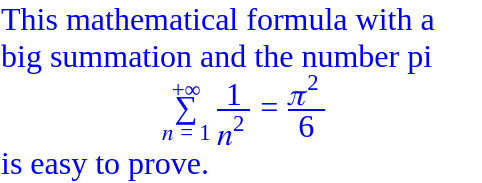
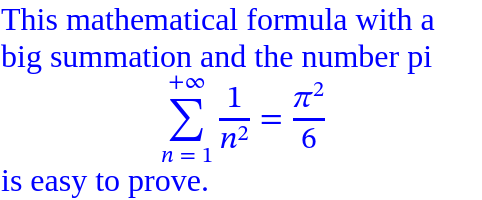
Use "STIX Two Math" instead of "STIX Two" for the example-style.
https://github.com/w3c/mathml-core/issues/45

diff --git a/examples/example-style.html b/examples/example-style.html
@@ -1,6 +1,6 @@
 <div style="width: 15em; color: blue">
   This mathematical formula with a big summation and the number pi
-  <math display="block" style="font-family: STIX Two">
+  <math display="block" style="font-family: STIX Two Math">
     <mrow>
       <munderover>
         <mo>∑</mo>
